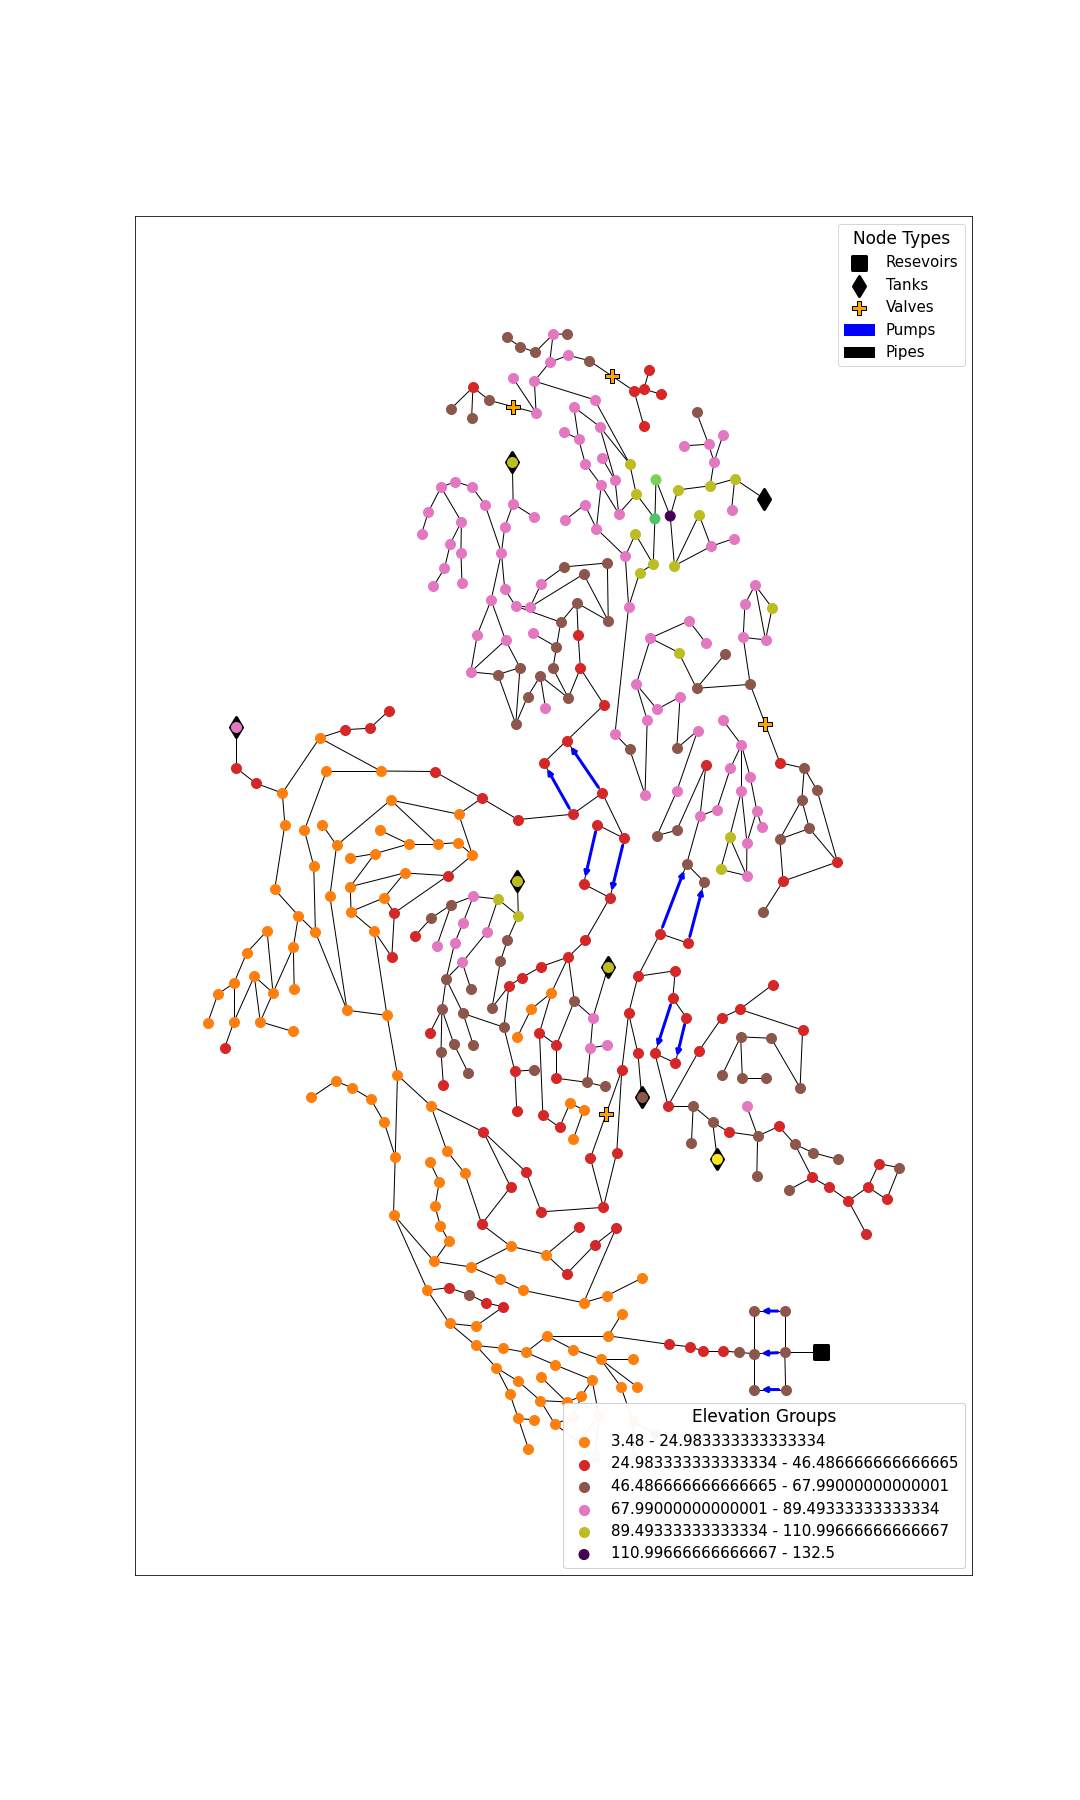
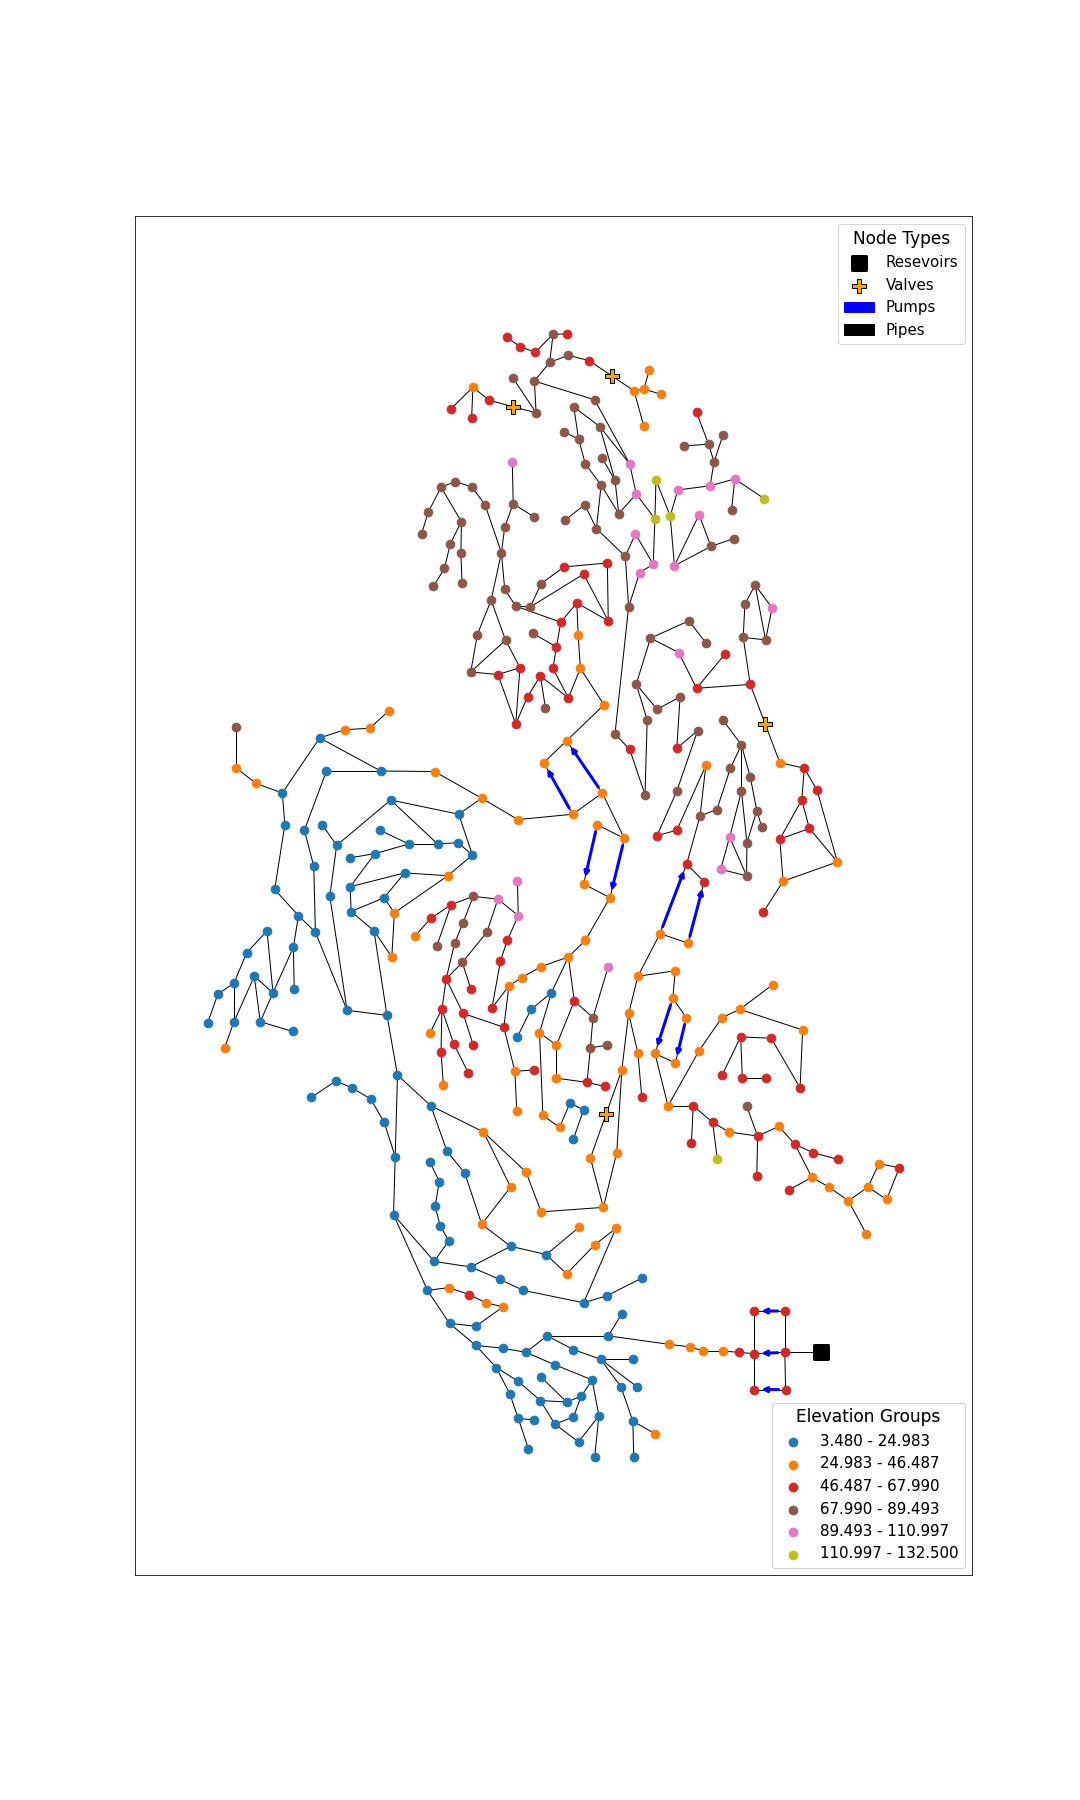
Adds many optional parameters for plotDistinctNodes(), fixes bugs
bins: By default set to 'Automatic.' User can input array of values like [25,50,75,100,125] and the bins will be set to <25, 25-50, 50-75, 75-100, 100-125, >125

binSizeList: Has default size, can be set to an array equal to the one set in bins=

binShapeList: Same as above

binLabeList: Same as above

colorList: Alternative to cmap.  Same as above. By default, cmap overrides any colorList, so cmap must be set to cmap=None for a custom colorList to work

Bugs Fixed:

Fixed issue with automatic binning of parameters.

Truncated strings of automatic bins

diff --git a/Base Codes/wdn_viz_003.py b/Base Codes/wdn_viz_003.py
@@ -36,43 +36,59 @@ def binParameter(parameterResults,binList):
     for i in range(len(binList)):
         
         if i == 0:
-            binNames = np.append(binNames, '< ' + str(binList[i]))
-            binNames = np.append(binNames, str(binList[i]) + ' - ' + str(binList[i+1]))
-        elif i == len(binList)-1:
-            binNames = np.append(binNames, '> ' + str(binList[i]))
-
-        else:
-            binNames = np.append(binNames, str(binList[i]) + ' - ' + str(binList[i+1]))
+            if np.min(parameterResults) < binList[i]:
+                binNames = np.append(binNames, '< {0:1.3f}'.format(binList[i]))
+            binNames = np.append(binNames, '{0:1.3f} - {1:1.3f}'.format(binList[i], binList[i+1]))
+            
+        elif (i<len(binList) - 1) == True:
+            binNames = np.append(binNames, '{0:1.3f} - {1:1.3f}'.format(binList[i], binList[i+1]))
+            
+        elif i == len(binList) - 1:
+            if np.max(parameterResults) > binList[i]:
+                binNames = np.append(binNames, '> {0:1.3f}'.format(binList[i]))
+                
     for binName in binNames:
         binnedParameter[binName] = {}
+    print(binNames)
     for i in range(len(binList)):
         
         if i == 0:
             counter = 0
+
+            
             for parameter in parameterResults:
-                if parameter < binList[i]:
-                    binnedParameter['< ' + str(binList[i])][junctionNames[counter]] = junctionNames[counter]
                 if parameter >= binList[i] and parameter < binList[i+1]:
-                        binnedParameter[str(binList[i]) + ' - ' + str(binList[i+1])][junctionNames[counter]] = junctionNames[counter]
+                        binnedParameter['{0:1.3f} - {1:1.3f}'.format(binList[i], binList[i+1])][junctionNames[counter]] = junctionNames[counter]
+                if parameter < binList[i]:
+                        binnedParameter['< {0:1.3f}'.format(binList[i])][junctionNames[counter]] = junctionNames[counter]
                 counter += 1
-        elif i == len(binList)-1:
+        elif i == len(binList) - 2:
+            counter = 0
+            for parameter in parameterResults:
+                if parameter >= binList[i] and parameter <= binList[i+1]:
+                        binnedParameter['{0:1.3f} - {1:1.3f}'.format(binList[i], binList[i+1])][junctionNames[counter]] = junctionNames[counter]
+                counter += 1
+        elif (i<len(binList) - 2) == True:
+            counter = 0
+            for parameter in parameterResults:
+                if parameter >= binList[i] and parameter < binList[i+1]:
+                        binnedParameter['{0:1.3f} - {1:1.3f}'.format(binList[i], binList[i+1])][junctionNames[counter]] = junctionNames[counter]
+                counter += 1
+                
+        elif i == len(binList) - 1:
             counter = 0
             for parameter in parameterResults:
                 if parameter > binList[i]:
-                    binnedParameter['> ' + str(binList[i])][junctionNames[counter]] = junctionNames[counter]
+                    binnedParameter['> {0:1.3f}'.format(binList[i])][junctionNames[counter]] = junctionNames[counter]
                 counter += 1
-        else:
-            counter = 0
-            for parameter in parameterResults:
-                if parameter >= binList[i] and parameter < binList[i+1]:
-                        binnedParameter[str(binList[i]) + ' - ' + str(binList[i+1])][junctionNames[counter]] = junctionNames[counter]
-                counter += 1
+                
     for binName in binNames:
         if len(binnedParameter[binName]) == 0:
             binNames = np.delete(binNames,np.where(binNames == binName))
             del binnedParameter[binName]
-    print(binNames)
     return binnedParameter, binNames
+
+    
             
 def drawLegend(ax,title='Node Types',pumps=True,loc='upper right'):
     handles, labels = ax.get_legend_handles_labels()
@@ -95,27 +111,46 @@ def drawSpecialLegend(ax,binList,title=None,loc='lower right'):
     ax.add_artist(legend)
     
     
-def drawDistinctNodes(model,nodes, binList, cmap='tab10', legend=True, legendtitle=None, legendLoc='lower right'):
-    cmap = mpl.cm.get_cmap(cmap)
-    cmapValue = 1/len(binList)
-    global ax
-    for binName in binList:
-        nxp.draw_networkx_nodes(model['G'], model['pos_dict'], nodelist = nodes.get(binName).values(), node_size = 100, node_color = cmap(float(cmapValue)), label=binName)
-        cmapValue += 1/len(binList)
+def drawDistinctNodes(model,ax,nodes, binList, binSizeList=None, binLabelList=None, binShapeList=None,cmap='tab10', colorList =  None,legend=True, legendTitle=None, legendLoc='lower right'):
+    if binSizeList == None:
+        binSizeList = np.ones(len(binList))*300
+    print(binSizeList)
+    
+    if binLabelList == None:
+        binLabelList = binList
         
+    if binShapeList == None:
+        binShapeList = []
+        for i in range(len(binList)):
+            binShapeList = np.append(binShapeList,'.')
+    counter = 0
+    if (colorList != None and cmap != None) == True or cmap != None:        
+        cmap = mpl.cm.get_cmap(cmap)
+        cmapValue = 0
+        
+        for binName in binList:
+            nxp.draw_networkx_nodes(model['G'], model['pos_dict'], nodelist = nodes.get(binName).values(), node_size = binSizeList[counter], node_color = cmap(float(cmapValue)), node_shape = binShapeList[counter],label=binLabelList[counter])
+            cmapValue += 1/len(binList)
+            counter += 1
+            
+    else:
+        for binName in binList:
+            nxp.draw_networkx_nodes(model['G'], model['pos_dict'], nodelist = nodes.get(binName).values(), node_size = binSizeList[counter], node_color = colorList[counter], node_shape = binShapeList[counter],label=binLabelList[counter])
+            counter += 1
+            
     if legend == True:
-        drawSpecialLegend(ax,binList,title=legendtitle,loc=legendLoc)
+        drawSpecialLegend(ax,binList,title=legendTitle,loc=legendLoc)
     handles, labels = ax.get_legend_handles_labels()       
         
     
-def drawBaseElements(model,resevoirs=True,tanks=True,pumps=True,valves=True,legend=True):
+def drawBaseElements(model,ax,resevoirs=True,tanks=True,pumps=True,valves=True,legend=True):
     nxp.draw_networkx_nodes(model['G'], model['pos_dict'], node_size = 30, node_color = 'k')
     
     if resevoirs == True:
-        nxp.draw_networkx_nodes(model['G'], model['pos_dict'], nodelist = model['wn'].reservoir_name_list, node_size = 200, node_color = 'black',linewidths=3,node_shape = 's', label='Resevoirs')
+        nxp.draw_networkx_nodes(model['G'], model['pos_dict'], nodelist = model['resevoir_names'], node_size = 200, node_color = 'black',linewidths=3,node_shape = 's', label='Resevoirs')
     
     if tanks == True:
-        nxp.draw_networkx_nodes(model['G'], model['pos_dict'], nodelist = model['wn'].tank_name_list, node_size = 200, node_color = 'black',linewidths=3, node_shape = 'd', label='Tanks')
+        nxp.draw_networkx_nodes(model['G'], model['pos_dict'], nodelist = model['tank_names'], node_size = 200, node_color = 'black',linewidths=3, node_shape = 'd', label='Tanks')
    
     if valves == True:
         valve_coordinates = {}
@@ -132,7 +167,6 @@ def drawBaseElements(model,resevoirs=True,tanks=True,pumps=True,valves=True,lege
         nxp.draw_networkx_edges(model['G'], model['pos_dict'], edgelist = model['G_list_pumps_only'], node_size = 200, edge_color = 'b', width=3)  
         
     if legend == True:
-        global ax
         drawLegend(ax,pumps=pumps)      
 def getParameter(model,parameter):
     try:
@@ -141,6 +175,7 @@ def getParameter(model,parameter):
     except KeyError:
         parameterResults = model['wn'].query_node_attribute('elevation')
         return parameterResults
+
 
 def getDemandPatterns(model):
     demandPatterns = []
@@ -195,37 +230,15 @@ def initializeModel(inp_file):
     
     # Create name lists for easy reference
     junc_names = wn.junction_name_list
+    node_names = wn.node_name_list
     valve_names = wn.valve_name_list
     tank_names = wn.tank_name_list
-    node_names = wn.node_name_list
+    resevoir_names = wn.reservoir_name_list
     model['junc_names'] = junc_names
     model['valve_names'] = valve_names
     model['tank_names'] = tank_names
     model['node_names'] = node_names
-    #find incidence matrix and A21 matrix
-    pipe_tp =[]
-    pipe_tp2 = []
-    
-    for pipe_name, link in wn.pipes():
-        pipe_tp.append(link.start_node_name)
-        pipe_tp2.append(link.end_node_name)
-    pipe_list = list(zip(pipe_tp, pipe_tp2))
-    
-    pipe_tp =[]
-    pipe_tp2 = []
-    
-    for pump_name, link in wn.pumps():
-        pipe_tp.append(link.start_node_name)
-        pipe_tp2.append(link.end_node_name)
-    pump_list = list(zip(pipe_tp, pipe_tp2))
-    
-    pipe_tp =[]
-    pipe_tp2 = []
-    
-    for valve_name, link in wn.valves():
-        pipe_tp.append(link.start_node_name)
-        pipe_tp2.append(link.end_node_name)
-    valve_list = list(zip(pipe_tp, pipe_tp2))
+    model['resevoir_names'] = resevoir_names
     
     pipe_tp =[]
     pipe_tp2 = []
@@ -233,22 +246,11 @@ def initializeModel(inp_file):
     for link_name, link in wn.links():
         pipe_tp.append(link.start_node_name)
         pipe_tp2.append(link.end_node_name)
-    new_pipes_list = list(zip(pipe_tp, pipe_tp2))
-    
-    
-    # Time configuration 
-    x_val = len(results.node['head'].loc[:, junc_names[0]])
-    time_step = wn.options.time.report_timestep
-    mult_ts = 3600/time_step
-    x = np.linspace(0,(x_val-1)/mult_ts,x_val)
     
     G = wn.get_graph()
     model['G'] = G
     G_edge_list = list(G.edges())
     model['G_edge_list'] = G_edge_list
-    inc_mat = sp.csr_matrix.toarray(nx.incidence_matrix(G,nodelist = node_names, oriented=True))
-    inc_mat_no = sp.csr_matrix.toarray(nx.incidence_matrix(G,nodelist = node_names, edgelist = new_pipes_list, oriented=False))
-    adj_mat = sp.csr_matrix.toarray(nx.adjacency_matrix(G,nodelist = node_names))
     
     pos_dict = {}
     for i in range(len(node_names)):
@@ -278,18 +280,6 @@ def initializeModel(inp_file):
     model['G_list_valves_only'] = G_list_valves_only  
     model['G_pipe_index'] = G_pipe_index  
     model['pipe_list_names'] = pipe_list_names                   
-    spl_nodes = []
-    spl_nodes_dict = {}
-    for tank_name, tank in wn.tanks():
-        # spl_nodes.append(tank_name)
-        spl_nodes_dict[tank_name] = tank_name
-        
-    for res_name, res in wn.reservoirs():
-        # spl_nodes.append(res_name)
-        spl_nodes_dict[res_name] = res_name 
-        
-    for i in range(len(spl_nodes)):
-        spl_nodes_dict[spl_nodes[i]] = spl_nodes[i]
         
     return model
 
@@ -301,10 +291,10 @@ def createBasicPlot(model, savefig=False, saveName=None):
     Arguments:
     model: Saved initilization done with initializeModel
     savefig: Boolean. Determines whether plot is saved to /Images directory"""
-    global fig,ax
+
     fig, ax = plt.subplots(figsize=(15,25))
     
-    drawBaseElements(model,pumps=False,legend=True)
+    drawBaseElements(model,ax,pumps=False,legend=True)
     if savefig == True:
         saveFig(model, saveName=saveName)
     
@@ -350,23 +340,21 @@ def createDemandPatternPlot(model, savefig=True, saveName=None):
     Arguments:
     model: Saved initilization done with initializeModel
     savefig: Boolean. Determines whether plot is saved to /Images directory"""
-    global fig,ax
     fig, ax = plt.subplots(figsize=(15,25))
     
     demandPatternNodes,patterns = getDemandPatterns(model)
-    drawBaseElements(model)  
-    drawDistinctNodes(model,demandPatternNodes,patterns,legendtitle='Demand Patterns')
+    drawBaseElements(model,ax)  
+    drawDistinctNodes(model,ax,demandPatternNodes,patterns,legendTitle='Demand Patterns')
 
     if savefig == True:
          saveFig(model, saveName=saveName)
 
-def plotDistinctNodes(model, parameter=None,bins='Automatic', savefig=True, legendTitle = None, saveName=None):
-    global fig,ax
+def plotDistinctNodes(model, parameter=None,bins='Automatic', binSizeList = None, binShapeList = None,binLabelList = None, savefig=True, legend=True,legendTitle = None, legendLoc='lower right', saveName=None, cmap='tab10', colorList=None):
     fig, ax = plt.subplots(figsize=(15,25))
     parameterResults = getParameter(model,parameter)
-    binnedResults,binNames = binParameter(parameterResults,binList='Automatic')
-    drawBaseElements(model)
-    drawDistinctNodes(model,binnedResults,binNames,legendtitle=legendTitle)
+    binnedResults,binNames = binParameter(parameterResults,binList=bins)
+    drawBaseElements(model,ax,tanks=False)
+    drawDistinctNodes(model,ax,binnedResults,binNames,binSizeList=binSizeList,binShapeList=binShapeList, binLabelList=binLabelList,cmap=cmap, colorList=colorList, legend=legend, legendTitle=legendTitle, legendLoc=legendLoc)
     
     if savefig == True:
          saveFig(model,saveName=saveName)

diff --git a/Base Codes/example.py b/Base Codes/example.py
@@ -2,11 +2,12 @@
 """
 Example with CTown.inp showing first few functions
 """
-import wdn_viz_002 as wdn
+import wdn_viz_003 as wdn
 
 model = wdn.initializeModel('CTown.inp')
 
 wdn.createBasicPlot(model, savefig=True, saveName = 'Basic')
 wdn.createFlowRatePlot(model, savefig=True)
 wdn.createDemandPatternPlot(model, savefig=True, saveName = 'DemandPatterns')
-binned = wdn.plotDistinctNodes(model,parameter='elevation',savefig=True, legendTitle= 'Elevation Groups', saveName = 'ElevationMap')
+wdn.plotDistinctNodes(model,parameter='elevation',savefig=True, legendTitle= 'Elevation Groups', saveName = 'ElevationMap')
+wdn.plotDistinctNodes(model,parameter='elevation',bins=[25,50,75,100,125,150],binSizeList = [100,125,150,175,200,225], binShapeList = ['.','v','8','D','1','p'], cmap=None,colorList=['#9467bd', '#8c564b', '#e377c2', '#7f7f7f', '#bcbd22', '#17becf'],savefig=True, legendTitle= 'Elevation Groups', saveName = 'ElevationMap2')
